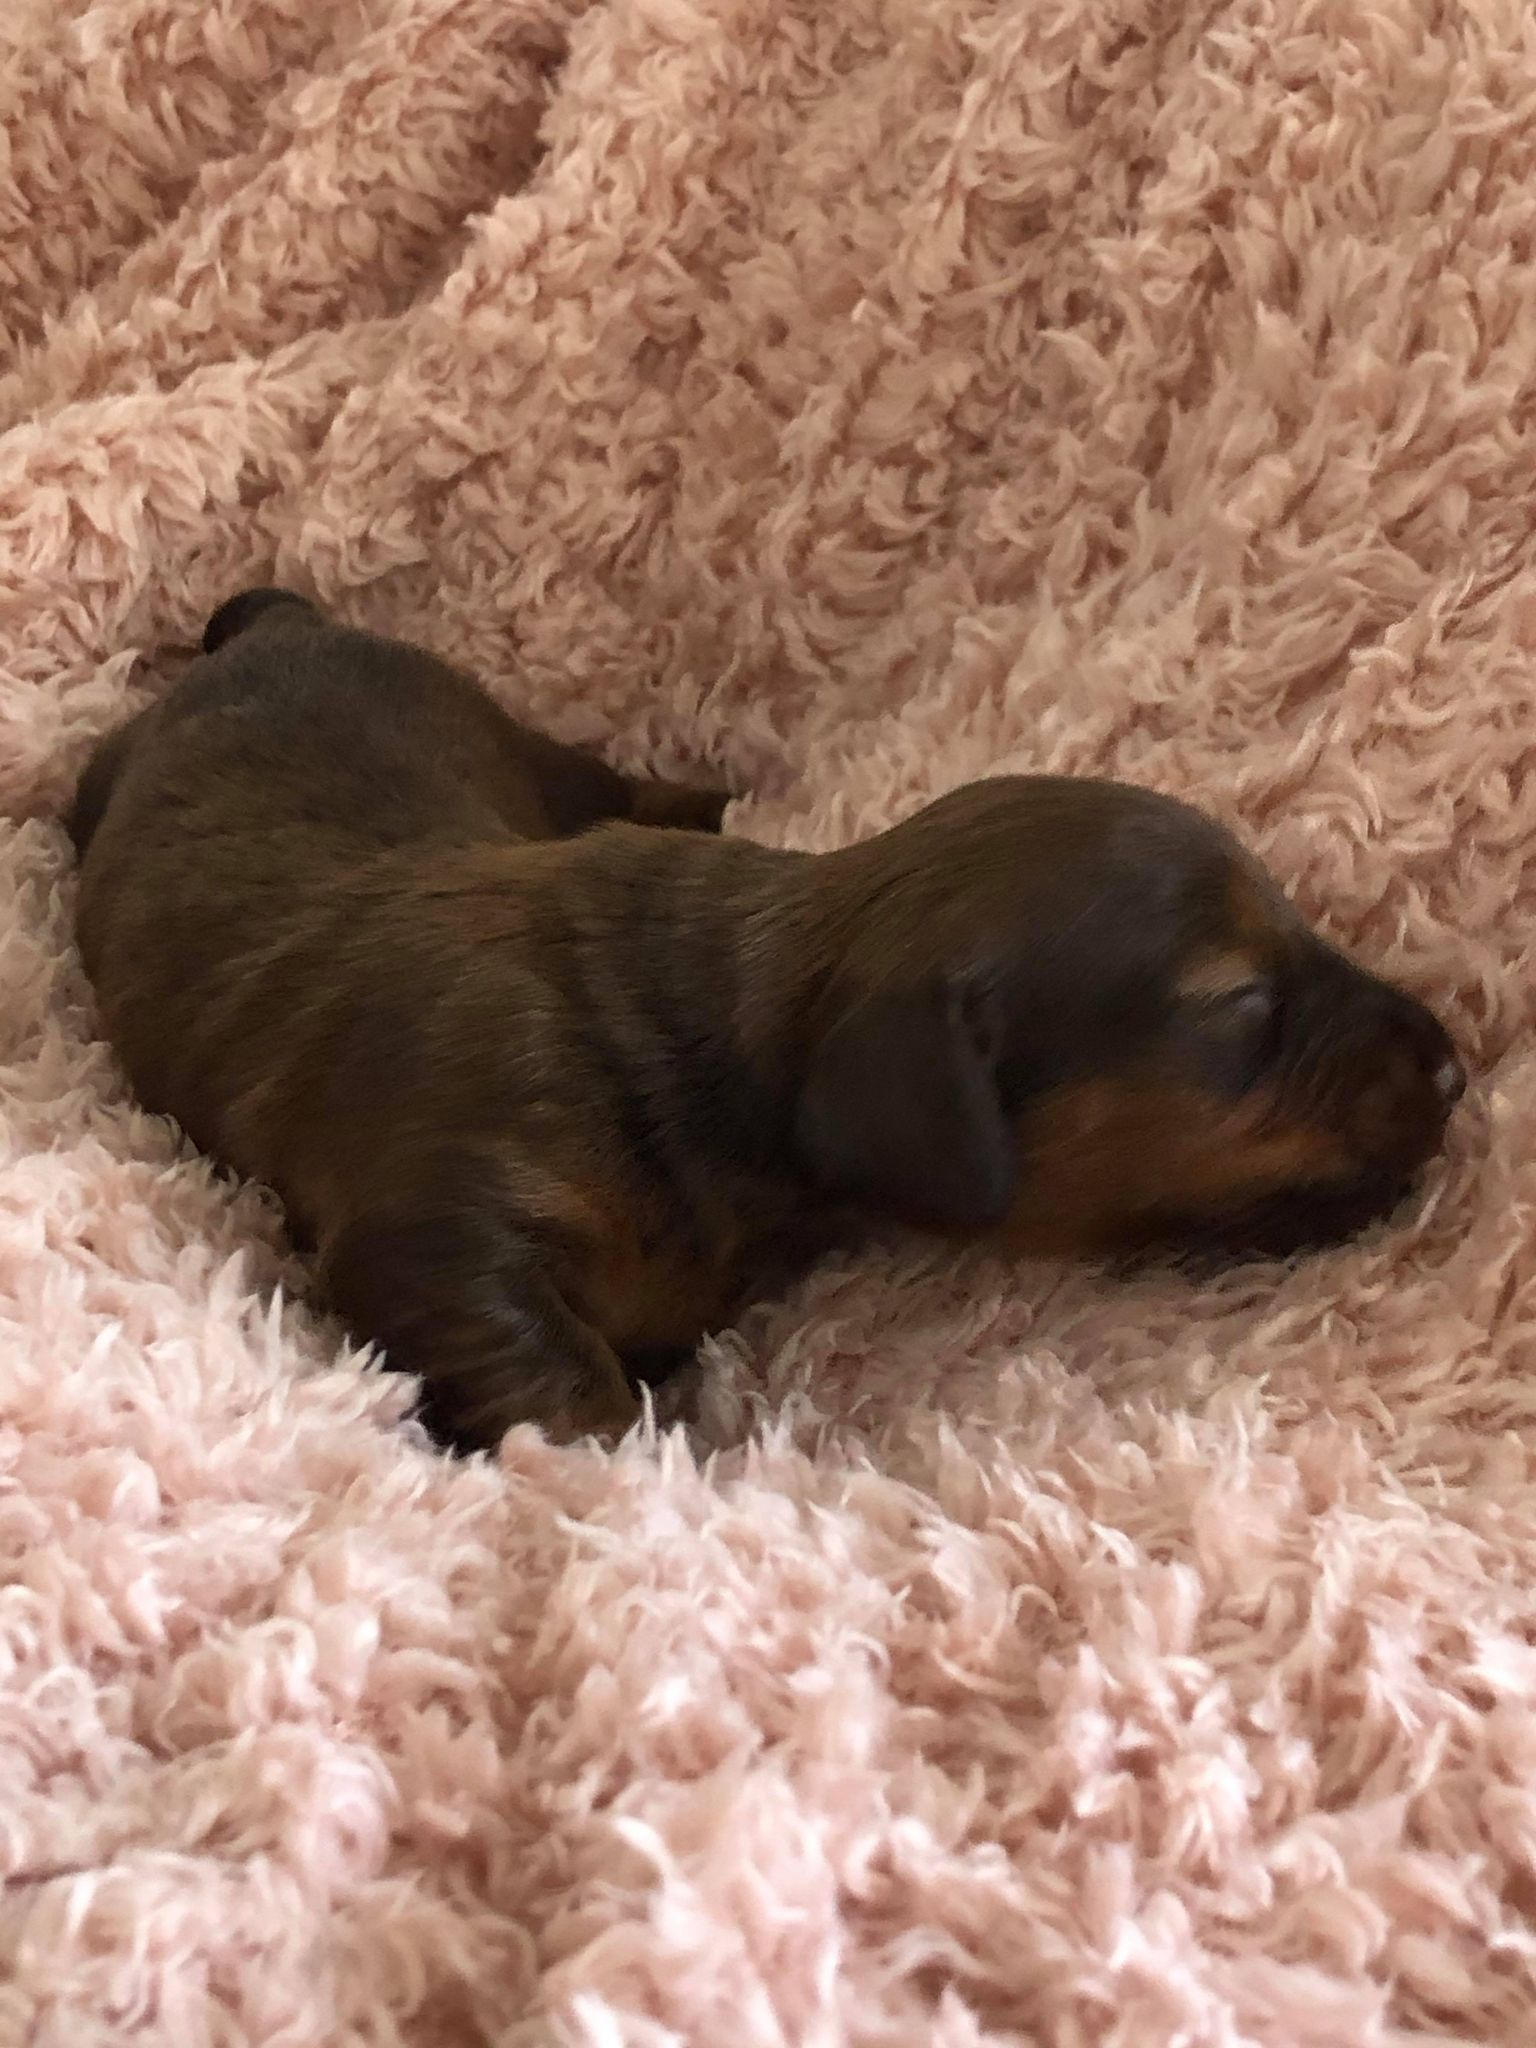
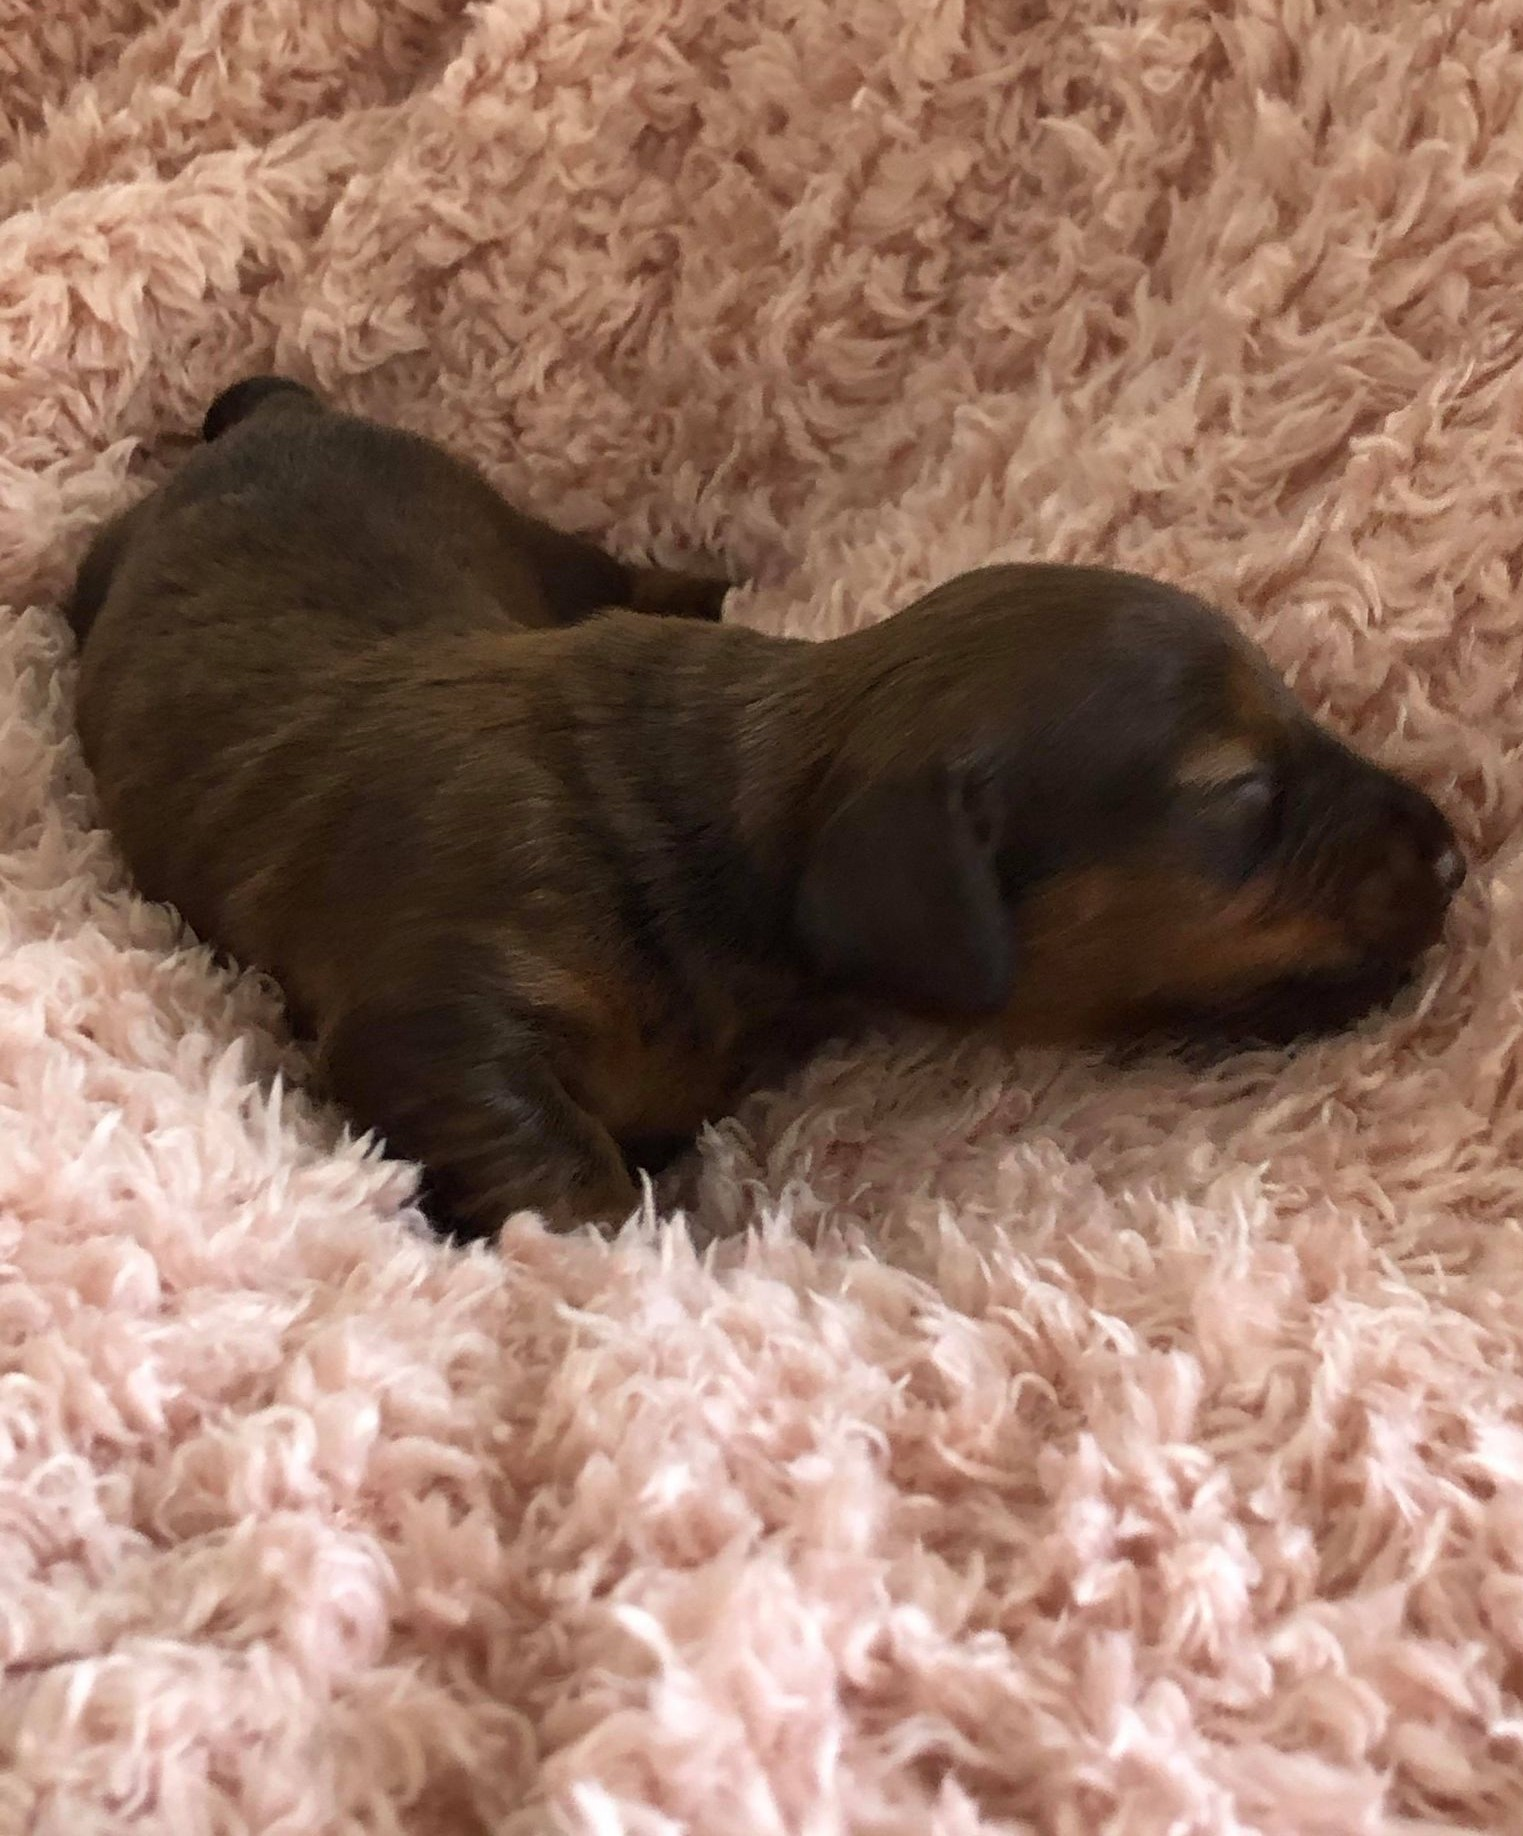
again

diff --git a/assets/css/style.css b/assets/css/style.css
@@ -621,7 +621,7 @@ footer {
     background-image:url(../img/pearlpupf1-2.jpg);
 }
 .card__side--back2-6{
-    background-image:url(../img/pearlpupf2-2edit.jpg);
+    background-image:url(../img/pearlpupf2-2edit-2.jpg);
 }
 .card__side--back2-7{
     background-image:url(../img/pearlpupm1-2.jpg);
